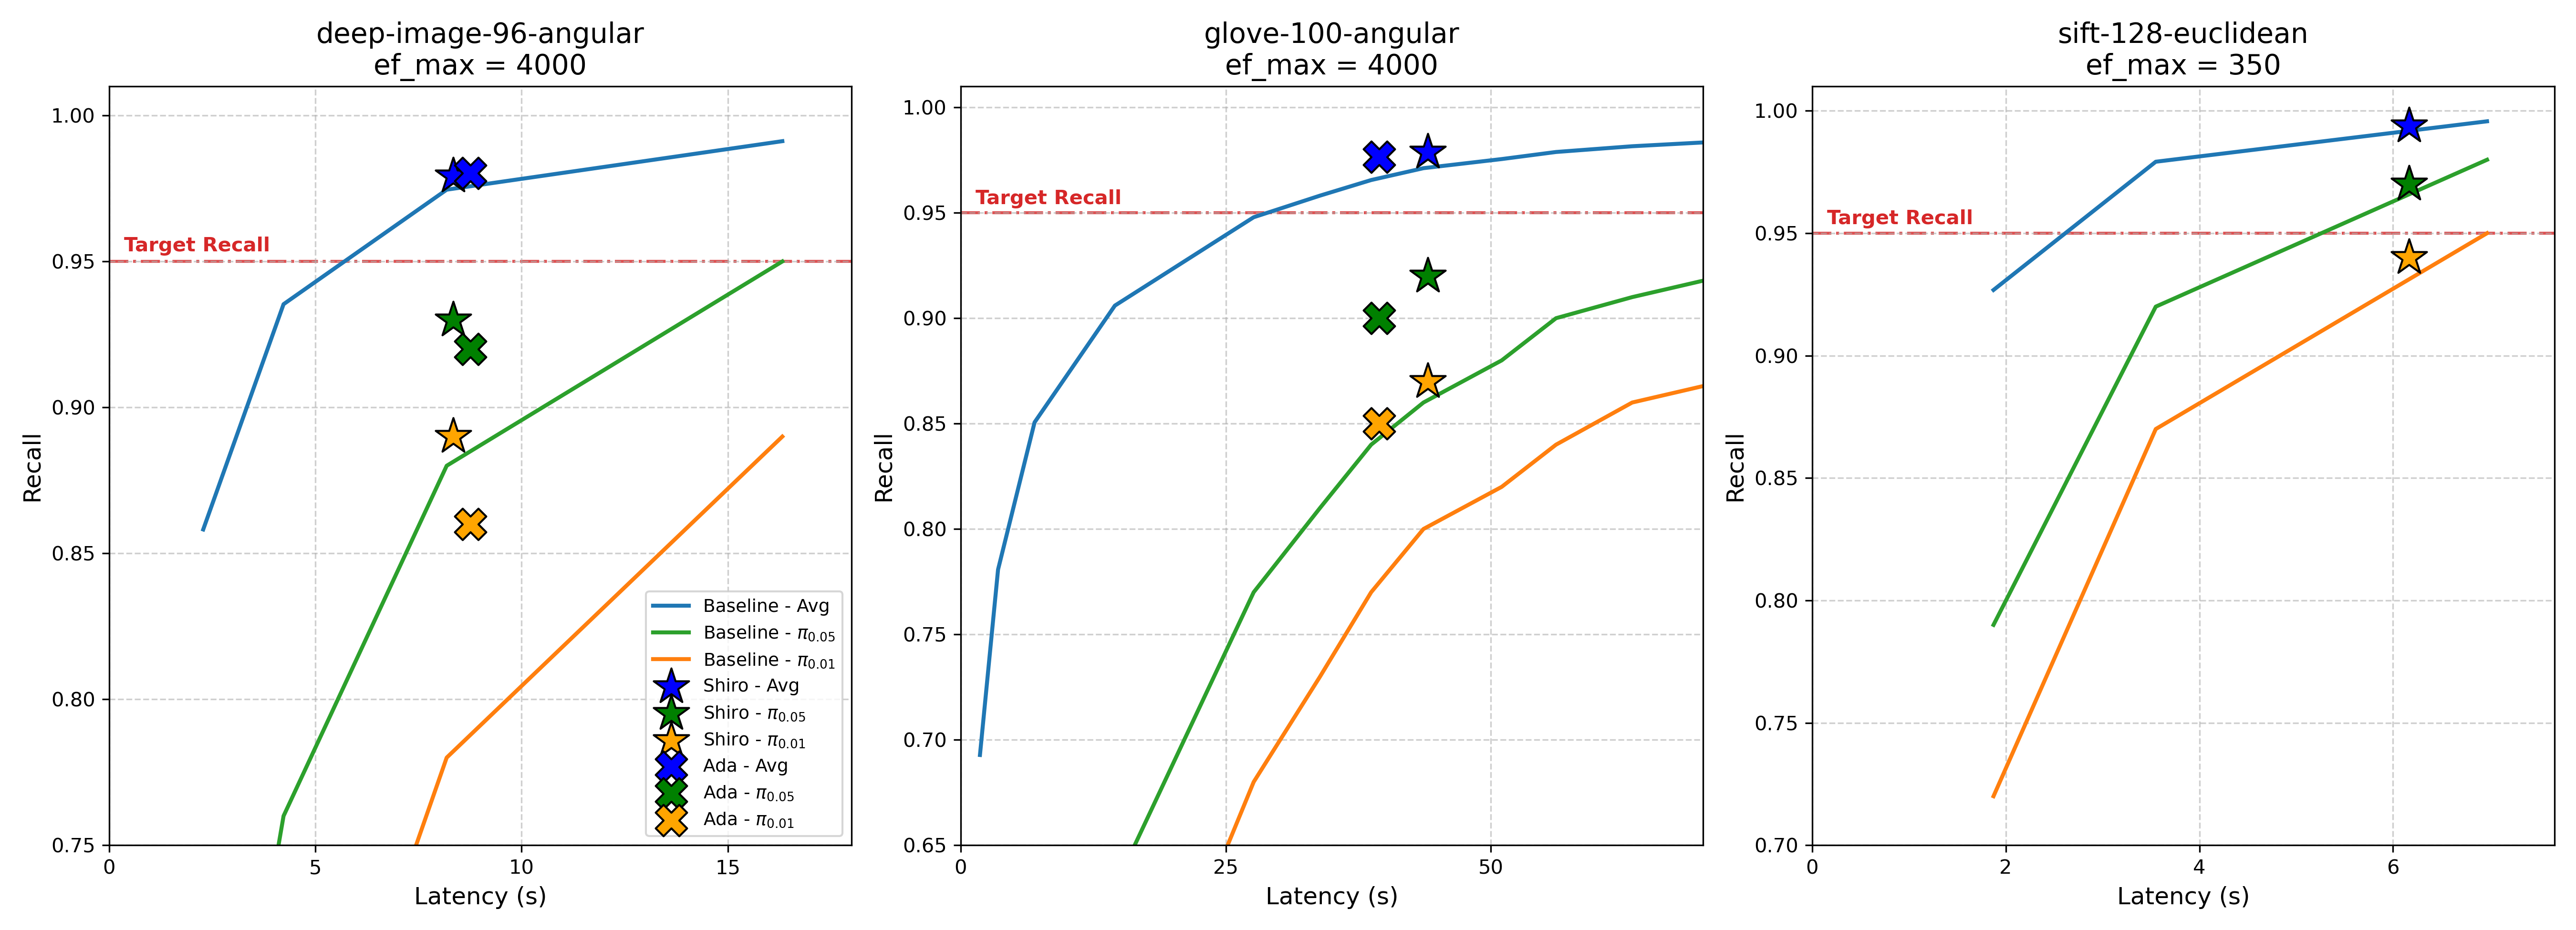
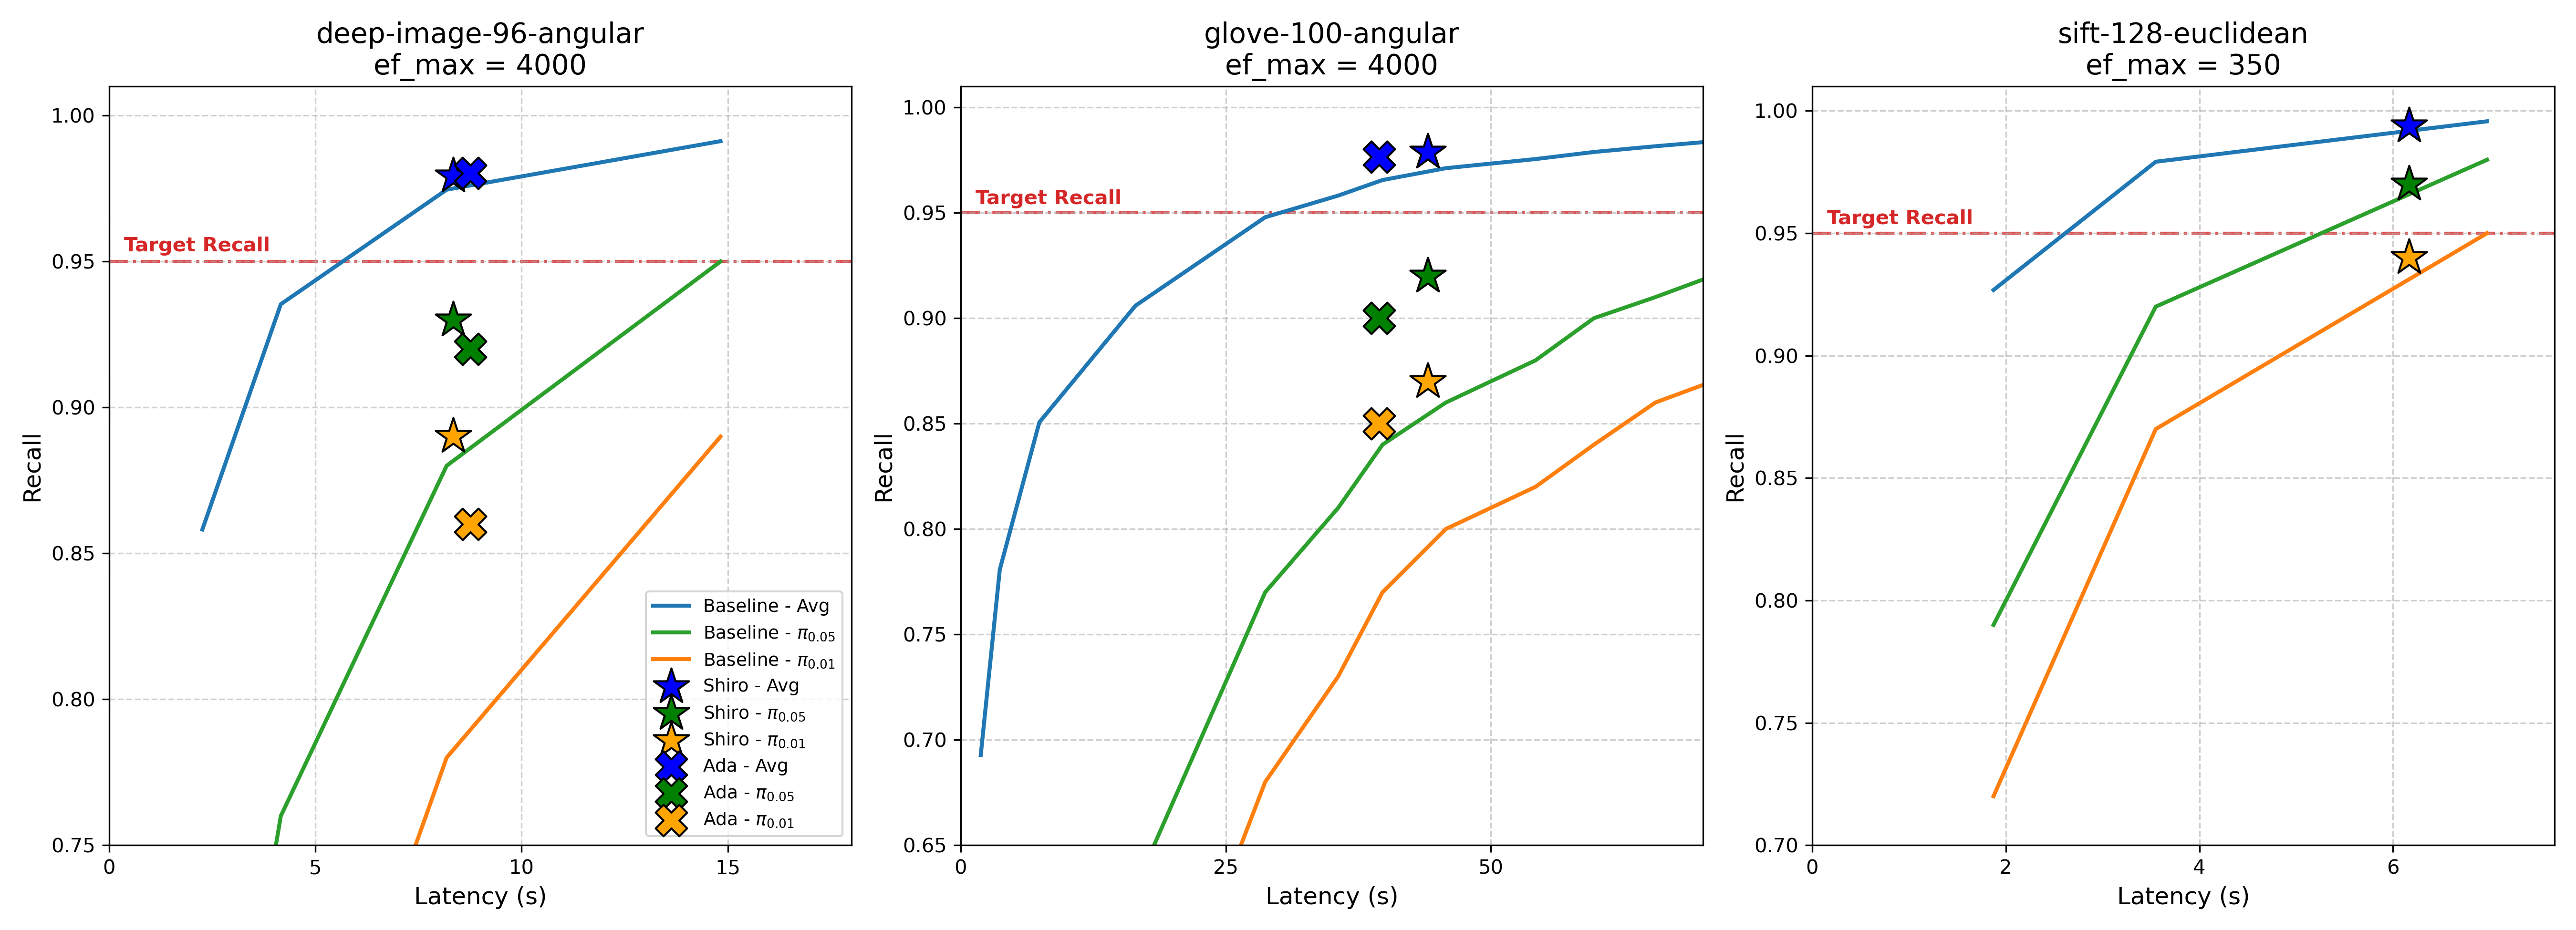
normalize plot latency

diff --git a/final_plot.py b/final_plot.py
@@ -170,82 +170,57 @@ for idx, ds_name in enumerate(datasets_keys):
                 )
 
     else:
-        bl_efs_shiro = set(shiro.get(ds_name, {}).get("baseline", {}).keys())
-        bl_efs_ada = set(ada.get(ds_name, {}).get("baseline", {}).keys())
-        bl_efs = sorted(list(bl_efs_shiro.union(bl_efs_ada)))
+        # 1. First Pass: Compute the relative hardware scaling factor (Ada -> Shiro)
+        common_efs = set(shiro.get(ds_name, {}).get("baseline", {}).keys()).intersection(
+            set(ada.get(ds_name, {}).get("baseline", {}).keys())
+        )
+        
+        total_s_time = 0
+        total_a_time = 0
+        for ef in common_efs:
+            s_t = shiro[ds_name]["baseline"][ef]["times"]
+            a_t = ada[ds_name]["baseline"][ef]["times"]
+            total_s_time += s_t[1] if len(s_t) > 1 else s_t[0]
+            total_a_time += a_t[1] if len(a_t) > 1 else a_t[0]
+            
+        # Gamma scales Ada's clock speed to match Shiro's hardware environment
+        gamma = total_s_time / total_a_time if total_a_time > 0 else 1.0
+
+        # 2. Second Pass: Extract data points using Shiro as primary, falling back to scaled Ada
+        bl_efs = sorted(list(set(shiro.get(ds_name, {}).get("baseline", {}).keys()).union(
+            set(ada.get(ds_name, {}).get("baseline", {}).keys())
+        )))
 
         bl_times_med = []
         bl_avg = []
         bl_p05 = []
         bl_p01 = []
 
-        total_shiro_med = 0
-        total_ada_med = 0
-        total_unified_med = 0
-
         for ef in bl_efs:
-            s_times = (
-                shiro.get(ds_name, {}).get("baseline", {}).get(ef, {}).get("times", [])
-            )
-            a_times = (
-                ada.get(ds_name, {}).get("baseline", {}).get(ef, {}).get("times", [])
-            )
+            s_log = shiro.get(ds_name, {}).get("baseline", {}).get(ef, {})
+            a_log = ada.get(ds_name, {}).get("baseline", {}).get(ef, {})
 
-            if not s_times and not a_times:
-                continue
+            if s_log:
+                # Shiro is our baseline hardware anchor
+                times = s_log["times"]
+                med_val = times[1] if len(times) > 1 else times[0]
+                bl_times_med.append(med_val / 1000.0)
+                bl_avg.append(s_log["avg"])
+                bl_p05.append(s_log["p05"])
+                bl_p01.append(s_log["p01"])
+            elif a_log:
+                # Shiro doesn't have this ef; use Ada's recall but NORMALIZE its latency
+                times = a_log["times"]
+                med_val = times[1] if len(times) > 1 else times[0]
+                bl_times_med.append((med_val * gamma) / 1000.0) # Apply hardware correction
+                bl_avg.append(a_log["avg"])
+                bl_p05.append(a_log["p05"])
+                bl_p01.append(a_log["p01"])
 
-            if s_times and a_times:
-                s_med_val = s_times[1] if len(s_times) > 1 else s_times[0]
-                a_med_val = a_times[1] if len(a_times) > 1 else a_times[0]
-                u_med_val = (s_med_val + a_med_val) / 2.0
-                total_shiro_med += s_med_val
-                total_ada_med += a_med_val
-                total_unified_med += u_med_val
-            elif s_times:
-                s_med_val = s_times[1] if len(s_times) > 1 else s_times[0]
-                u_med_val = s_med_val
-                total_shiro_med += s_med_val
-                total_unified_med += u_med_val
-            elif a_times:
-                a_med_val = a_times[1] if len(a_times) > 1 else a_times[0]
-                u_med_val = a_med_val
-                total_ada_med += a_med_val
-                total_unified_med += u_med_val
-
-            bl_times_med.append(u_med_val / 1000.0)
-
-            target_log = shiro if s_times else ada
-            bl_avg.append(target_log[ds_name]["baseline"][ef]["avg"])
-            bl_p05.append(target_log[ds_name]["baseline"][ef]["p05"])
-            bl_p01.append(target_log[ds_name]["baseline"][ef]["p01"])
-
-        scale_shiro = total_unified_med / total_shiro_med if total_shiro_med else 1.0
-        scale_ada = total_unified_med / total_ada_med if total_ada_med else 1.0
-
-        ax.plot(
-            bl_times_med,
-            bl_avg,
-            "-",
-            color="tab:blue",
-            label=r"Baseline - Avg",
-            linewidth=2,
-        )
-        ax.plot(
-            bl_times_med,
-            bl_p05,
-            "-",
-            color="tab:green",
-            label=r"Baseline - $\pi_{0.05}$",
-            linewidth=2,
-        )
-        ax.plot(
-            bl_times_med,
-            bl_p01,
-            "-",
-            color="tab:orange",
-            label=r"Baseline - $\pi_{0.01}$",
-            linewidth=2,
-        )
+        # 3. Plot the synchronized curves
+        ax.plot(bl_times_med, bl_avg, "-", color="tab:blue", label="Baseline - Avg", linewidth=2)
+        ax.plot(bl_times_med, bl_p05, "-", color="tab:green", label=r"Baseline - $\pi_{0.05}$", linewidth=2)
+        ax.plot(bl_times_med, bl_p01, "-", color="tab:orange", label=r"Baseline - $\pi_{0.01}$", linewidth=2)
 
         if "our_method" in shiro.get(ds_name, {}):
             s_data = shiro[ds_name]["our_method"]